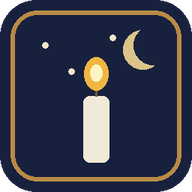
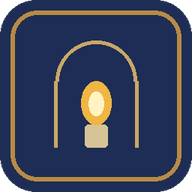
v4 lean-assets-local-cities: שינוי שם ל-Zmanei_Nezach, נכסים קלים, מאגר יישובים מוטמע
- שם הפרויקט/הריפו/התיקייה: זמני נצח (Zmanei_Nezach); נותק לחלוטין מפרויקט נבנצל
- נכסים: JPEG -> WebP, ממוזערת 320px לגלריה + מלאה 1254px רק לנבחרת.
  ביקור ראשון ירד מ-7.26MB ל-124KB (פי 60) — מסיר את תקרת רוחב הפס של GitHub Pages
- cities-il.json: 1,174 יישובי ישראל מוטמעים (~21KB דחוס), חיפוש מקומי מיידי
  עם נורמליזציה של כתיב מלא/חסר. Nominatim ירד למוצא אחרון — מדיניותו מגבילה
  בקשה אחת לשנייה לכל אפליקציה ואוסרת חיפוש-תוך-כדי-הקלדה
- קובץ הגדרות: ייצוא/ייבוא JSON במקום חשבון משתמש — אין שרת ואין הרשמה
- כתובת קשר בתמונה הנוצרת + כפתור פנייה באתר
- אייקון חדש: נר נצח בתוך קשת

Claude-Session: https://claude.ai/code/session_016AiiqbmSuqeMUkDL26V9iK

diff --git a/app.js b/app.js
@@ -1,7 +1,7 @@
 /* לוח שבת לזכרם — כלי אישי ליצירת לוח זמני שבת לזכר יקיריכם */
 'use strict';
 
-const BUILD = '2026-08-28 15:25 v3 city-search-osm';
+const BUILD = '2026-08-28 17:10 v4 lean-assets-local-cities';
 
 const W = 1254, H = 1254;
 const SETTINGS_KEY = 'memorialBoard.v1';
@@ -12,55 +12,55 @@ const SETTINGS_KEY = 'memorialBoard.v1';
  * lozenges fade toward, so it must match the template's paper. */
 const TEMPLATES = {
   classic: {
-    label: 'קלאסי', file: 'templates/classic.jpg',
+    label: 'קלאסי', file: 'templates/classic.webp',
     ink: '#1e2d55', gold: '#b98a44', cream: '246,240,226', plaque: '#2f425a'
   },
   olive: {
-    label: 'ענף זית', file: 'templates/olive.jpg',
+    label: 'ענף זית', file: 'templates/olive.webp',
     ink: '#2f4a33', gold: '#a08b3f', cream: '247,243,232', plaque: '#3c523f'
   },
   jerusalem: {
-    label: 'ירושלים', file: 'templates/jerusalem.jpg',
+    label: 'ירושלים', file: 'templates/jerusalem.webp',
     ink: '#5a4326', gold: '#b08d4f', cream: '245,237,221', plaque: '#5a4326'
   },
   night: {
-    label: 'שמי לילה', file: 'templates/night.jpg',
+    label: 'שמי לילה', file: 'templates/night.webp',
     ink: '#17203d', gold: '#b98a44', cream: '243,239,229', plaque: '#1f2a4a',
     /* the title zone sits on the dark night sky, so it needs light ink */
     titleInk: '#f2e9c9', titleShadow: 'rgba(10,16,38,0.55)'
   },
   field: {
-    label: 'שדה זהב', file: 'templates/field.jpg',
+    label: 'שדה זהב', file: 'templates/field.webp',
     ink: '#5a4423', gold: '#a8843c', cream: '246,239,222', plaque: '#5f4d28'
   },
   galilee: {
-    label: 'הגליל', file: 'templates/galilee.jpg',
+    label: 'הגליל', file: 'templates/galilee.webp',
     ink: '#2e4a3a', gold: '#8f9a55', cream: '244,243,232', plaque: '#3a5244'
   },
   tchelet: {
-    label: 'תכלת', file: 'templates/tchelet.jpg',
+    label: 'תכלת', file: 'templates/tchelet.webp',
     ink: '#28486b', gold: '#8aa3c0', cream: '240,244,248', plaque: '#31517a'
   },
   /* --- Shabbat-themed --- */
   candles: {
-    label: 'נרות שבת', file: 'templates/candles.jpg', shabbat: true,
+    label: 'נרות שבת', file: 'templates/candles.webp', shabbat: true,
     ink: '#4a3b25', gold: '#b08d4f', cream: '250,245,230', plaque: '#4a3f2a'
   },
   challah: {
-    label: 'חלות וקידוש', file: 'templates/challah.jpg', shabbat: true,
+    label: 'חלות וקידוש', file: 'templates/challah.webp', shabbat: true,
     ink: '#5a2a33', gold: '#a8853f', cream: '250,247,238', plaque: '#5e2f38'
   },
   'shabbat-table': {
-    label: 'שולחן שבת', file: 'templates/shabbat-table.jpg', shabbat: true,
+    label: 'שולחן שבת', file: 'templates/shabbat-table.webp', shabbat: true,
     ink: '#3a3f4a', gold: '#a3947a', cream: '248,248,246', plaque: '#474d59'
   },
   havdala: {
-    label: 'הבדלה', file: 'templates/havdala.jpg', shabbat: true,
+    label: 'הבדלה', file: 'templates/havdala.webp', shabbat: true,
     ink: '#3a3550', gold: '#9a8fa8', cream: '245,242,234', plaque: '#3f3a5c',
     titleInk: '#f2eee4', titleShadow: 'rgba(30,24,55,0.5)'
   },
   pomegranate: {
-    label: 'רימונים', file: 'templates/pomegranate.jpg', shabbat: true,
+    label: 'רימונים', file: 'templates/pomegranate.webp', shabbat: true,
     ink: '#5c232c', gold: '#b08d3f', cream: '249,246,236', plaque: '#5c232c'
   }
 };
@@ -125,9 +125,6 @@ const CITIES = [
   { key: 'modiin',    name: 'מודיעין',   lat: 31.8928, lng: 35.0153,  tzid: 'Asia/Jerusalem',      candles: 18, israel: true },
   { key: 'ariel',     name: 'שומרון',    lat: 32.1046, lng: 35.1745,  tzid: 'Asia/Jerusalem',      candles: 18, israel: true },
   { key: 'katzrin',   name: 'רמת הגולן', lat: 32.9925, lng: 35.6899,  tzid: 'Asia/Jerusalem',      candles: 18, israel: true },
-  /* on the original board and absent from every public gazetteer, so it
-   * cannot be recovered by search — it has to ship as a preset */
-  { key: 'neveyair',  name: 'נווה יאיר', lat: 31.3600, lng: 34.4200,  tzid: 'Asia/Jerusalem',      candles: 18, israel: true },
   { key: 'london',    name: 'לונדון',    lat: 51.5074, lng: -0.1278,  tzid: 'Europe/London',       candles: 18, israel: false },
   { key: 'newyork',   name: 'ניו יורק',  lat: 40.7128, lng: -74.0060, tzid: 'America/New_York',    candles: 18, israel: false },
   { key: 'paris',     name: 'פריז',      lat: 48.8566, lng: 2.3522,   tzid: 'Europe/Paris',        candles: 18, israel: false },
@@ -718,6 +715,23 @@ function tonedBg() {
   return c;
 }
 
+const CONTACT_EMAIL = 'idoyan@gmail.com';
+
+/* Discreet credit in the bottom-left corner, outside the plaque, so anyone
+ * who receives the image forwarded in a WhatsApp group can find the tool. */
+function drawContact() {
+  ctx.save();
+  ctx.direction = 'ltr';
+  ctx.textAlign = 'left';
+  ctx.textBaseline = 'alphabetic';
+  ctx.font = '400 19px FrankRuhl, serif';
+  ctx.fillStyle = 'rgba(0,0,0,0.34)';
+  ctx.shadowColor = 'rgba(255,255,255,0.6)';
+  ctx.shadowBlur = 4;
+  ctx.fillText(CONTACT_EMAIL, 42, 1228);
+  ctx.restore();
+}
+
 function drawBoard(plan, rows) {
   const labels = LABELS[plan.mode];
   ctx.clearRect(0, 0, W, H);
@@ -727,6 +741,7 @@ function drawBoard(plan, rows) {
   drawHeaders(labels.right, labels.left);
   drawPlaque();
   drawRows(rows);
+  drawContact();
 }
 
 /* ---------- assets ---------- */
@@ -956,7 +971,11 @@ function fillWizardFields() {
       label.classList.add('checked');
     });
     const img = document.createElement('img');
-    img.src = t.file;
+    // 320px thumbnail, not the full 1254px art — the gallery shows twelve of
+    // these at once, and the full file is fetched only for the chosen one
+    img.src = t.file.replace('templates/', 'templates/thumb/');
+    img.loading = 'lazy';
+    img.decoding = 'async';
     img.alt = t.label;
     const nm = document.createElement('div');
     nm.className = 'tname';
@@ -1127,6 +1146,58 @@ function autoCandles(lat, lng) {
 
 const CANDLE_CHOICES = [15, 18, 20, 22, 25, 30, 40];
 
+/* ---------- bundled Israeli localities ----------
+ * 1,174 localities with Hebrew names and WGS84 coordinates, shipped with the
+ * site (~21 KB gzipped). Searching these locally means the common case needs
+ * no network at all, and it keeps us far away from Nominatim's rate policy —
+ * its 1 req/sec cap counts per application, not per user. */
+
+let ilCities = null, ilLoading = null;
+
+function loadIsraeliCities() {
+  if (ilCities) return Promise.resolve(ilCities);
+  if (!ilLoading) {
+    ilLoading = fetch('cities-il.json')
+      .then(r => r.ok ? r.json() : [])
+      .then(d => { ilCities = d; return d; })
+      .catch(() => { ilCities = []; return []; });
+  }
+  return ilLoading;
+}
+
+/* Hebrew place names are written both plene and defective — נווה/נוה,
+ * קריית/קרית — and users type either. Collapsing the doubled letters and
+ * the punctuation makes both spellings compare equal. */
+function normHe(s) {
+  return (s || '')
+    .replace(/[֑-ׇ]/g, '')      // nikud / cantillation
+    .replace(/["'`׳״]/g, '')
+    .replace(/וו/g, 'ו')
+    .replace(/יי/g, 'י')
+    .replace(/[\s\-־]/g, '');
+}
+
+async function searchIsraeliCities(q) {
+  const list = await loadIsraeliCities();
+  const n = normHe(q);
+  if (!n) return [];
+  const starts = [], contains = [];
+  for (const c of list) {
+    const h = normHe(c.h);
+    if (h === n || h.startsWith(n)) starts.push(c);
+    else if (h.includes(n)) contains.push(c);
+    if (starts.length >= 8) break;
+  }
+  return starts.concat(contains).slice(0, 8).map(c => ({
+    key: 'il' + c.h,
+    name: c.h,
+    region: 'ישראל',
+    lat: c.y,
+    lng: c.x,
+    tzid: 'Asia/Jerusalem'
+  }));
+}
+
 async function fetchOpenMeteo(q) {
   const url = 'https://geocoding-api.open-meteo.com/v1/search?count=6&language=he&format=json&name=' +
     encodeURIComponent(q);
@@ -1192,12 +1263,17 @@ async function searchCity() {
   const mySeq = ++searchSeq;
   box.innerHTML = '<div class="cnote">מחפש…</div>';
   try {
-    let results = [];
-    try {
-      results = await fetchOpenMeteo(q);
-    } catch (e) { console.warn('open-meteo failed', e); }
+    // Bundled Israeli list first (instant, offline, no rate policy), then
+    // Open-Meteo for the rest of the world, and only as a last resort
+    // Nominatim — which still catches colloquial names the official list
+    // files differently (נווה צוף is registered there as חלמיש).
+    let results = await searchIsraeliCities(q);
     if (!results.length) {
-      // the usual path for small yishuvim
+      try {
+        results = await fetchOpenMeteo(q);
+      } catch (e) { console.warn('open-meteo failed', e); }
+    }
+    if (!results.length) {
       results = await fetchNominatim(q);
     }
     if (mySeq !== searchSeq) return;          // a newer search already ran
@@ -1396,6 +1472,49 @@ function handlePhotoFile(file) {
   reader.readAsDataURL(file);
 }
 
+/* ---------- settings file ----------
+ * The file IS the account: no server, no registration, no key. A family sets
+ * the board up once, saves the file, and can send it in WhatsApp to open the
+ * same board on another phone. */
+
+function exportSettings() {
+  if (!settings) return;
+  const blob = new Blob([JSON.stringify(settings, null, 2)], { type: 'application/json' });
+  const a = document.createElement('a');
+  a.href = URL.createObjectURL(blob);
+  const safe = (settings.name || 'לוח').replace(/[\\/:*?"<>|]/g, '').replace(/\s+/g, '-');
+  a.download = 'הגדרות-' + safe + '.json';
+  a.click();
+  setTimeout(() => URL.revokeObjectURL(a.href), 5000);
+  setStatus('ההגדרות נשמרו לקובץ. שמרו אותו — אפשר לפתוח אותו בכל מכשיר אחר.');
+}
+
+function importSettings(file) {
+  if (!file) return;
+  const reader = new FileReader();
+  reader.onload = () => {
+    try {
+      const s = JSON.parse(reader.result);
+      if (!s || !s.name || !Array.isArray(s.cities) || !s.cities.length) {
+        throw new Error('bad shape');
+      }
+      if (!TEMPLATES[s.template]) s.template = 'classic';
+      if (!FONT_PAIRS[s.fontPair]) s.fontPair = 'classic';
+      if (!TONES[s.tone]) s.tone = 'natural';
+      if (!Array.isArray(s.customCities)) s.customCities = [];
+      settings = s;
+      saveSettings(settings);
+      photoImage = null;
+      applySettingsToHeader();
+      closeWizardToBoard();
+      generate();
+    } catch (e) {
+      setStatus('הקובץ אינו קובץ הגדרות תקין של הכלי.', true);
+    }
+  };
+  reader.readAsText(file);
+}
+
 /* ---------- init ---------- */
 
 function initBoardScreen() {
@@ -1415,6 +1534,10 @@ $('btnMake').addEventListener('click', generate);
 $('btnDownload').addEventListener('click', download);
 $('btnShare').addEventListener('click', share);
 $('btnSettings').addEventListener('click', () => openWizard(settings));
+$('btnExport').addEventListener('click', exportSettings);
+$('btnImport').addEventListener('click', () => $('importFile').click());
+$('importFile').addEventListener('change', e => importSettings(e.target.files[0]));
+$('wizImport').addEventListener('click', () => $('importFile').click());
 
 $('wizNext').addEventListener('click', wizardNext);
 $('wizPrev').addEventListener('click', () => showStep(Math.max(0, wizardState.step - 1)));
@@ -1458,8 +1581,8 @@ async function boot() {
       c.getContext('2d').drawImage(img, 0, 0, c.width, c.height);
       settings = defaultDraft();
       settings.photo = c.toDataURL('image/jpeg', 0.85);
-      settings.name = 'סגן יאיר נבנצאל הי״ד';
-      settings.dateLine = 'שנהרג בכ״ה אייר תשס״א';
+      settings.name = 'שם היקר/ה';
+      settings.dateLine = 'תאריך הפטירה';
       settings.verse = 'נר ה׳ נשמת אדם';
       settings.template = urlParams.get('tpl') || 'classic';
       settings.fontPair = urlParams.get('font') || 'classic';

diff --git a/index.html b/index.html
@@ -2,7 +2,7 @@
 <html lang="he" dir="rtl">
 <head>
 <meta charset="utf-8">
-<title>לוח שבת לזכרם</title>
+<title>זמני נצח — לוח שבת לזכרם</title>
 <meta name="viewport" content="width=device-width, initial-scale=1">
 <meta name="theme-color" content="#1e2d55">
 <link rel="manifest" href="manifest.json">
@@ -350,8 +350,8 @@
 </head>
 <body>
   <header>
-    <h1 id="appTitle">לוח שבת לזכרם</h1>
-    <div class="memorial" id="memorialLine">לוח זמני שבת אישי — לזכר אהוביכם</div>
+    <h1 id="appTitle">זמני נצח</h1>
+    <div class="memorial" id="memorialLine">לוח זמני שבת אישי — לזכר יקיריכם</div>
   </header>
 
   <!-- ================= board screen ================= -->
@@ -363,6 +363,9 @@
       <button id="btnShare">📤 שיתוף התמונה</button>
       <button id="btnDownload">⬇ הורדת התמונה</button>
       <button id="btnSettings" class="iconbtn">⚙ הגדרות</button>
+      <button id="btnExport" class="iconbtn">💾 שמירת הגדרות לקובץ</button>
+      <button id="btnImport" class="iconbtn">📂 טעינת הגדרות</button>
+      <input type="file" id="importFile" accept="application/json,.json" style="display:none">
     </div>
 
     <div id="status"></div>
@@ -411,7 +414,7 @@
       </div>
       <div class="field">
         <label for="fName">שם יקירכם (כולל תואר אם תרצו)</label>
-        <input type="text" id="fName" placeholder='למשל: סגן יאיר נבנצאל הי״ד'>
+        <input type="text" id="fName" placeholder='למשל: מרים בת אברהם ז״ל'>
       </div>
       <div class="field">
         <label for="fDateLine">שורת התאריך / הנסיבות (לא חובה)</label>
@@ -457,7 +460,7 @@
         <label>גוון הצבע</label>
         <div class="tonegrid" id="toneGrid"></div>
         <div class="hint">כל גוון משנה את כל העיצובים — 12 עיצובים × 4 גוונים × 5 סגנונות כתב, מאות שילובים.
-          רוצים עיצוב נוסף שאינו כאן? כתבו לנו ונוסיף אותו לגלריה.</div>
+          רוצים עיצוב נוסף שאינו כאן? <a href="mailto:idoyan@gmail.com?subject=%D7%91%D7%A7%D7%A9%D7%AA%20%D7%A2%D7%99%D7%A6%D7%95%D7%91%20%D7%97%D7%93%D7%A9">כתבו לנו</a> ונוסיף אותו לגלריה לכולם.</div>
       </div>
     </div>
 
@@ -471,6 +474,7 @@
     <div class="wnav">
       <button id="wizPrev" class="iconbtn">→ הקודם</button>
       <span class="spacer"></span>
+      <button id="wizImport" class="iconbtn">📂 יש לי קובץ הגדרות</button>
       <button id="wizCancel" class="iconbtn" style="display:none">ביטול</button>
       <button id="wizNext">הבא ←</button>
     </div>
@@ -489,9 +493,11 @@
       <p><strong>מנהגי הדלקת נרות:</strong> ירושלים — 40 דקות לפני השקיעה; חיפה — 30 דקות; שאר הערים בארץ ובחו״ל — 18 דקות
         (<a href="https://www.hebcal.com/home/96/what-time-is-candle-lighting" target="_blank" rel="noopener">הסבר בהרחבה</a>).
         ליישוב שנוסף בחיפוש אפשר <strong>לבחור את מספר הדקות בעצמכם</strong> לפי מנהג המקום, והמספר הנבחר מוצג לצד שם היישוב ברשימה.</p>
-      <p><strong>איתור יישובים:</strong> שמות וקואורדינטות מגיעים מ-<a href="https://open-meteo.com/" target="_blank" rel="noopener">Open-Meteo</a>,
-        ולישובים קטנים מ-<a href="https://www.openstreetmap.org/" target="_blank" rel="noopener">OpenStreetMap</a> — מפת העולם השיתופית הפתוחה.
-        כדאי לוודא שהיישוב שנבחר הוא אכן שלכם (יש שמות כפולים).</p>
+      <p><strong>איתור יישובים:</strong> רשימת 1,174 היישובים בישראל מוטמעת בכלי עצמו (מקור: נתוני יישובים פתוחים של מערך הדיגיטל הלאומי / data.gov.il),
+        ולכן החיפוש בארץ מיידי ואינו תלוי בשירות חיצוני. לערים בחו״ל ולשמות עממיים משמשים
+        <a href="https://open-meteo.com/" target="_blank" rel="noopener">Open-Meteo</a> ו-<a href="https://www.openstreetmap.org/" target="_blank" rel="noopener">OpenStreetMap</a>.
+        יש יישובים הרשומים בשמם הרשמי (למשל <strong>נווה צוף</strong> רשום כ<strong>חלמיש</strong>) — אם לא מצאתם, נסו את השם השני.
+        כדאי לוודא שהיישוב שנבחר הוא אכן שלכם.</p>
       <p><strong>צאת שבת וחג:</strong> לפי צאת הכוכבים (הופעת שלושה כוכבים בינוניים) בחישוב האסטרונומי של Hebcal.</p>
       <p style="background:#f3e9d2; border-radius:10px; padding:10px 14px;">
         ⚠ הזמנים כאן הם עזר בלבד. הלכה למעשה מומלץ לאמת מול לוח הרבנות המקומית או לוח בית הכנסת שלכם —
@@ -521,6 +527,8 @@
   <footer>
     <span id="buildStamp"></span><br>
     <a href="#" id="srcLink">ℹ מקורות הזמנים</a>
+    &nbsp;·&nbsp;
+    <a href="mailto:idoyan@gmail.com?subject=%D7%96%D7%9E%D7%A0%D7%99%20%D7%A0%D7%A6%D7%97%20%E2%80%94%20%D7%A4%D7%A0%D7%99%D7%99%D7%94">✉ פנייה / בקשת עיצוב</a>
   </footer>
   <script src="app.js"></script>
 </body>

diff --git a/README.md b/README.md
@@ -1,11 +1,11 @@
-# לוח שבת לזכרם
+# זמני נצח
 
 כלי אישי ליצירת לוח זמני כניסת ויציאת שבת (וחגים וצומות) לזכר יקיריכם.
 
-**האתר החי:** https://idoyan-spec.github.io/luach-shabbat-lezichram/
+**האתר החי:** https://idoyan-spec.github.io/Zmanei_Nezach/
 
 ## מה הכלי עושה
-- אשף קצר של 6 צעדים: תמונה (עם זום ומיקום ותצוגה מקדימה חיה) → פרטי הנצחה → משפט לזיכרון → בחירת ערים (עד 8, כולל חיפוש כל עיר בעולם) → בחירת עיצוב (12 תבניות ב-2 קבוצות + 4 גווני צבע) → סגנון כתב (5 זוגות גופנים).
+- אשף קצר של 6 צעדים: תמונה (עם זום ומיקום ותצוגה מקדימה חיה) → פרטי הנצחה → משפט לזיכרון → בחירת ערים (עד 8; רשימת 1,174 יישובי ישראל מוטמעת בכלי, ולחו״ל חיפוש חי) → בחירת עיצוב (12 תבניות ב-2 קבוצות + 4 גווני צבע) → סגנון כתב (5 זוגות גופנים).
 - ההגדרות והתמונה נשמרות **רק בדפדפן שלכם** (localStorage) — שום דבר לא נשלח לשרת.
 - מכל כניסה: בוחרים תאריך, לוחצים "צור לוח", ומקבלים תמונת PNG מעוצבת (1254×1254) לשיתוף/הורדה.
 - זיהוי אוטומטי של שבת / חג / צום / יום כיפור לפי התאריך שנבחר.
@@ -19,5 +19,7 @@
 - סטטי לחלוטין (HTML/JS Canvas, ללא build). בדיקה מקומית: `python -m http.server 8631` ולפתוח `http://127.0.0.1:8631/`.
 - מצב דמו לבדיקות: `/?demo=1&auto=1&date=YYYY-MM-DD&tpl=<שם תבנית>&font=<זוג גופנים>&tone=<גוון>`. איפוס האשף: `/?reset=1`.
 - גופנים: David Libre + Gveret Levin + Frank Ruhl Libre (מקומיים, OFL) + Suez One / Bellefair / Secular One / Heebo / Amatic SC (מ-Google Fonts).
-- חיפוש ערים: Open-Meteo Geocoding, ועבור יישובים קטנים (שאינם במאגר של Open-Meteo) נפילה ל-Nominatim/OpenStreetMap; אזור הזמן נגזר מהקואורדינטות. שני ה-API חינמיים, ללא מפתח, פתוחי CORS.
+- חיפוש ערים: `cities-il.json` מוטמע (1,174 יישובים, ~21KB דחוס, מקור data.gov.il) ונסרק מקומית עם נורמליזציה של כתיב מלא/חסר; לחו״ל Open-Meteo; ורק כמוצא אחרון Nominatim/OpenStreetMap — שמדיניותו מגבילה לבקשה אחת לשנייה **לכל אפליקציה** ואוסרת חיפוש-תוך-כדי-הקלדה. אזור הזמן נגזר מהקואורדינטות.
+- נכסים: התבניות ב-WebP — ממוזערת 320px לגלריה ומלאה 1254px רק לנבחרת. ביקור ראשון ~124KB במקום 7.26MB.
+- קובץ הגדרות: ייצוא/ייבוא JSON מחליף חשבון משתמש — אין שרת ואין הרשמה.
 - רקעי התבניות נוצרו ב-Gemini ללא טקסט; כל הטקסטים, התמונה והלוחית מצוירים בקוד על Canvas.
